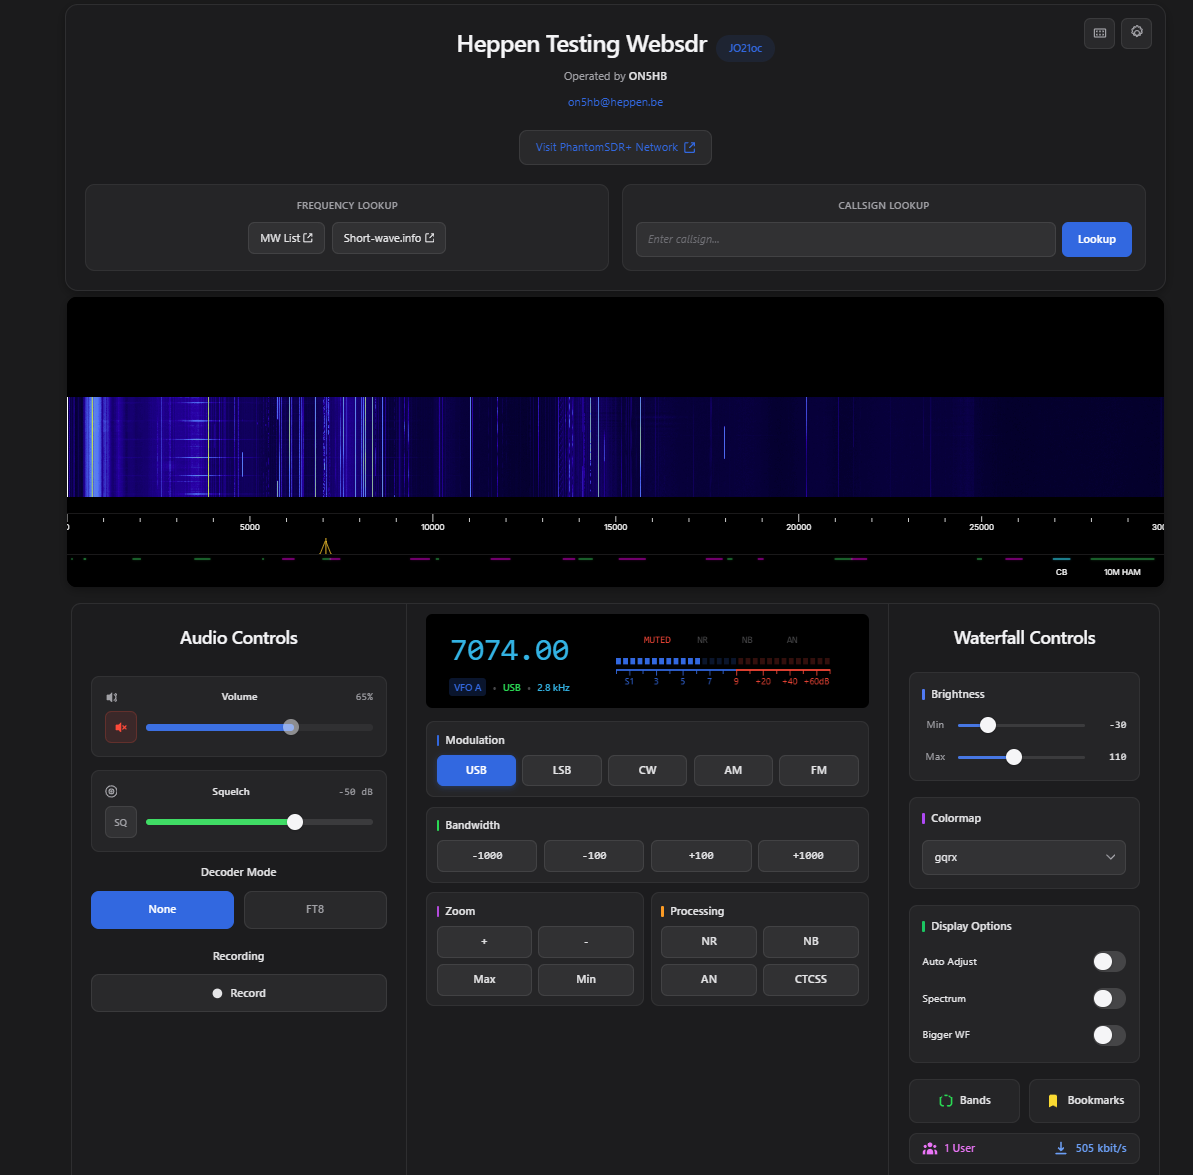
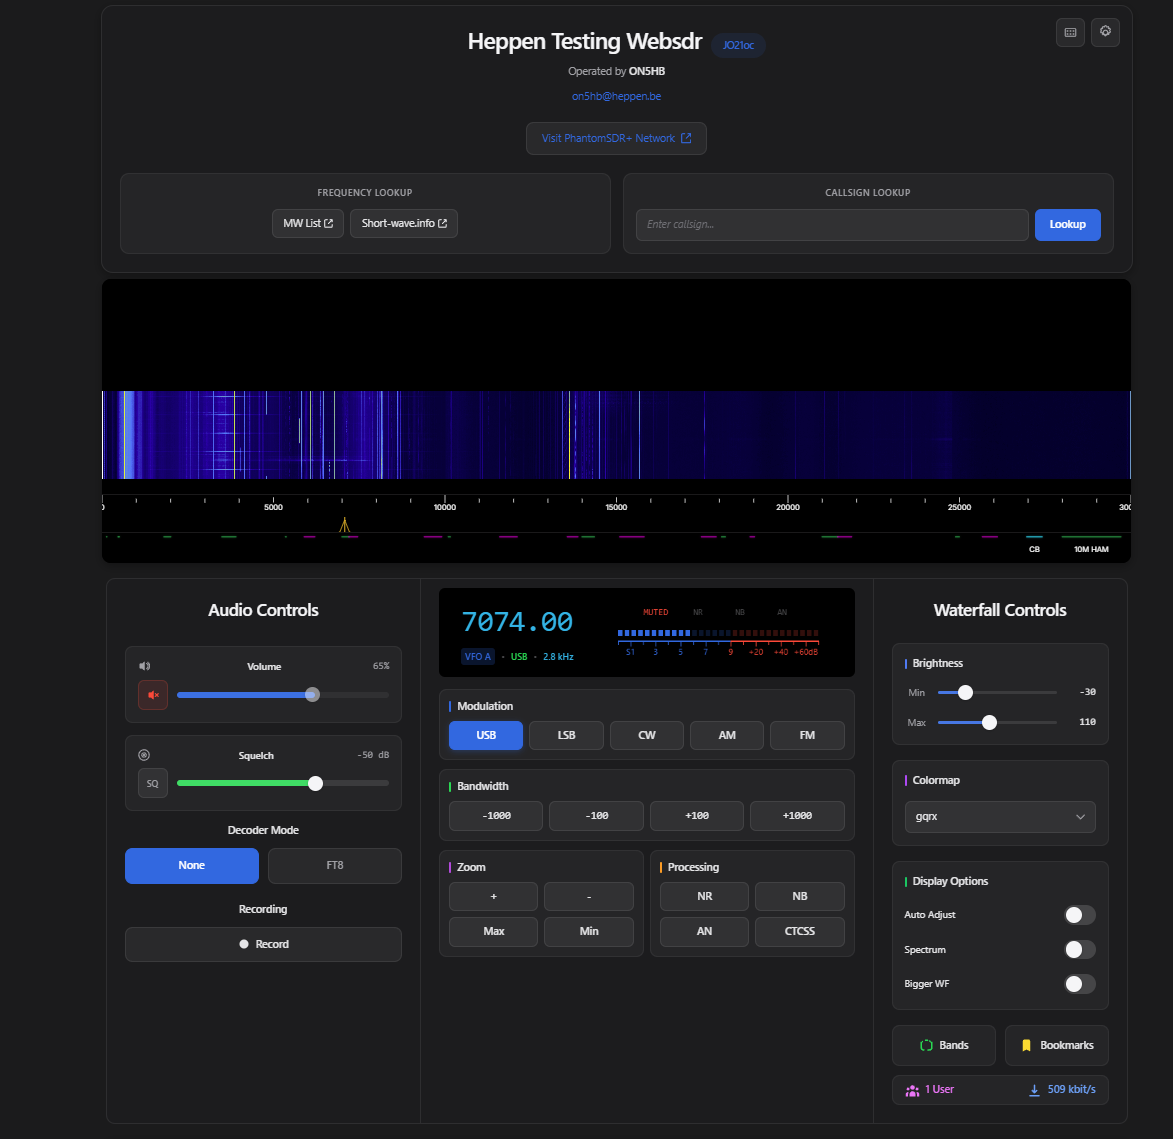
2.0.0 image

diff --git a/README.md b/README.md
@@ -31,7 +31,7 @@ We offer more features as we only maintain support for Linux instead of the offi
 
 ## Screenshots
 
-The Aachen WebSDR:
+The Heppen WebSDR [using the new 2.0.0 Version]:
 ![Screenshot](/docs/websdr.PNG)
 
 (https://sdr-list.xyz)
